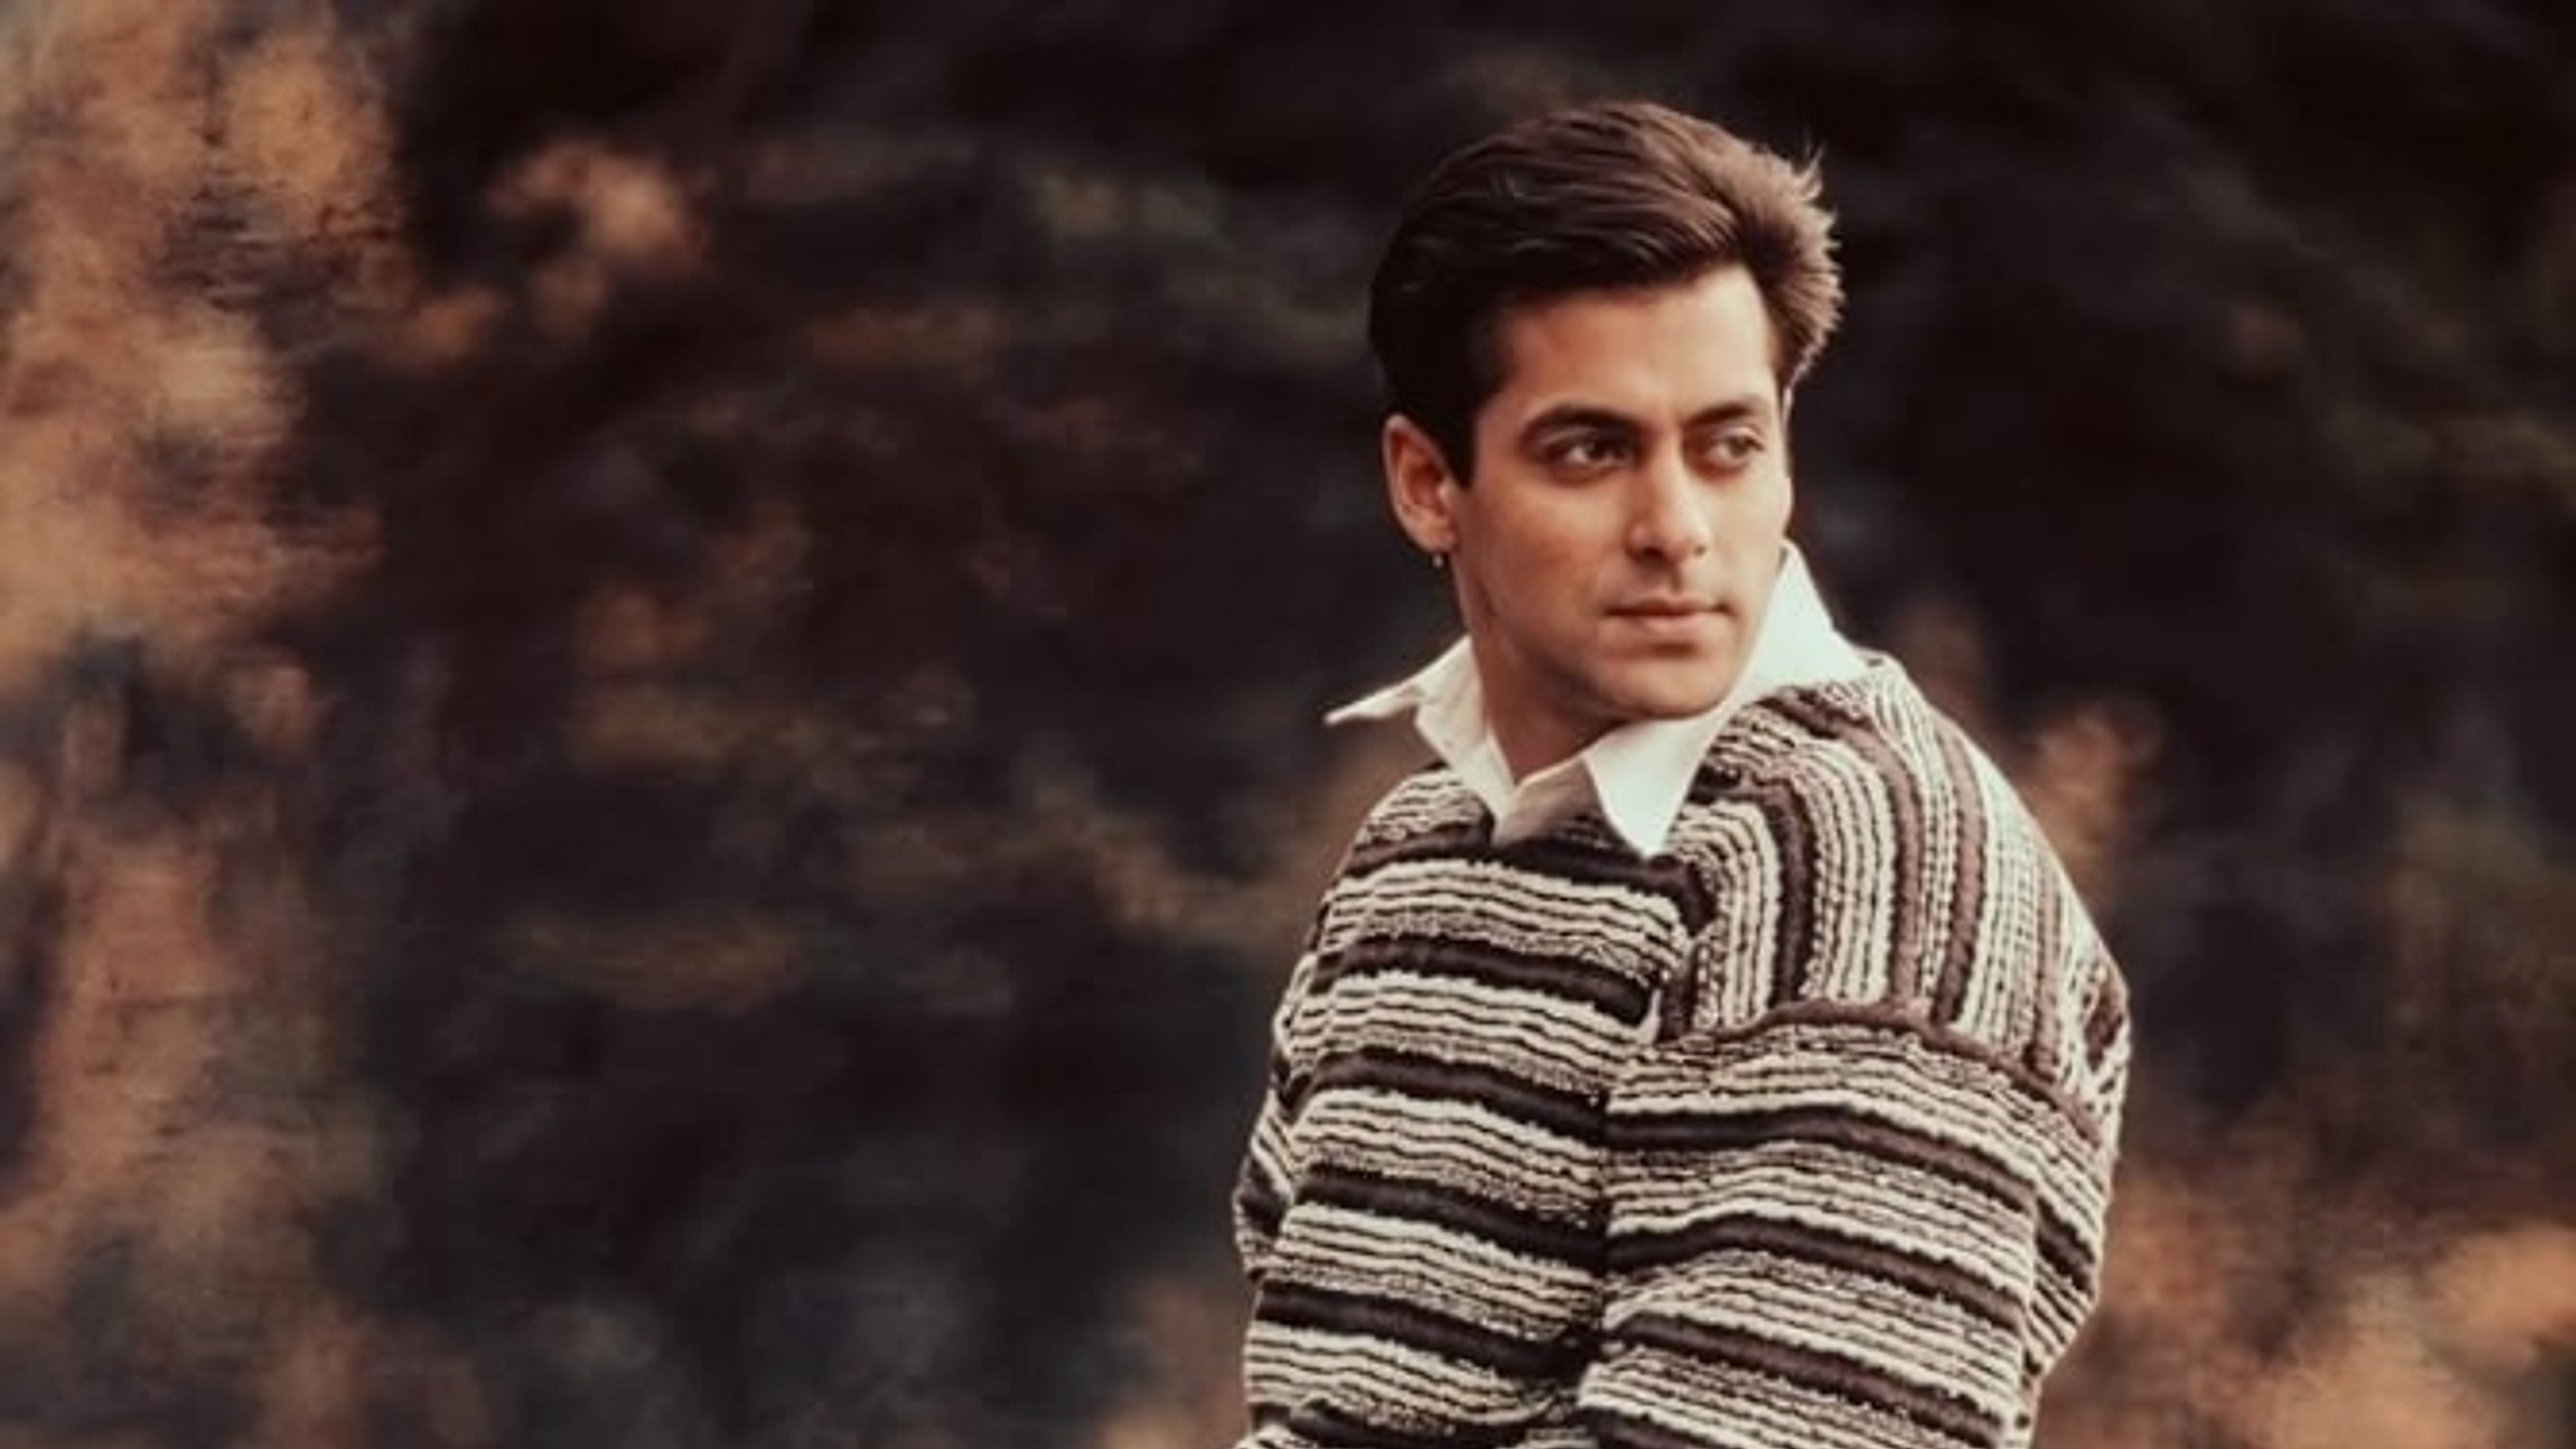
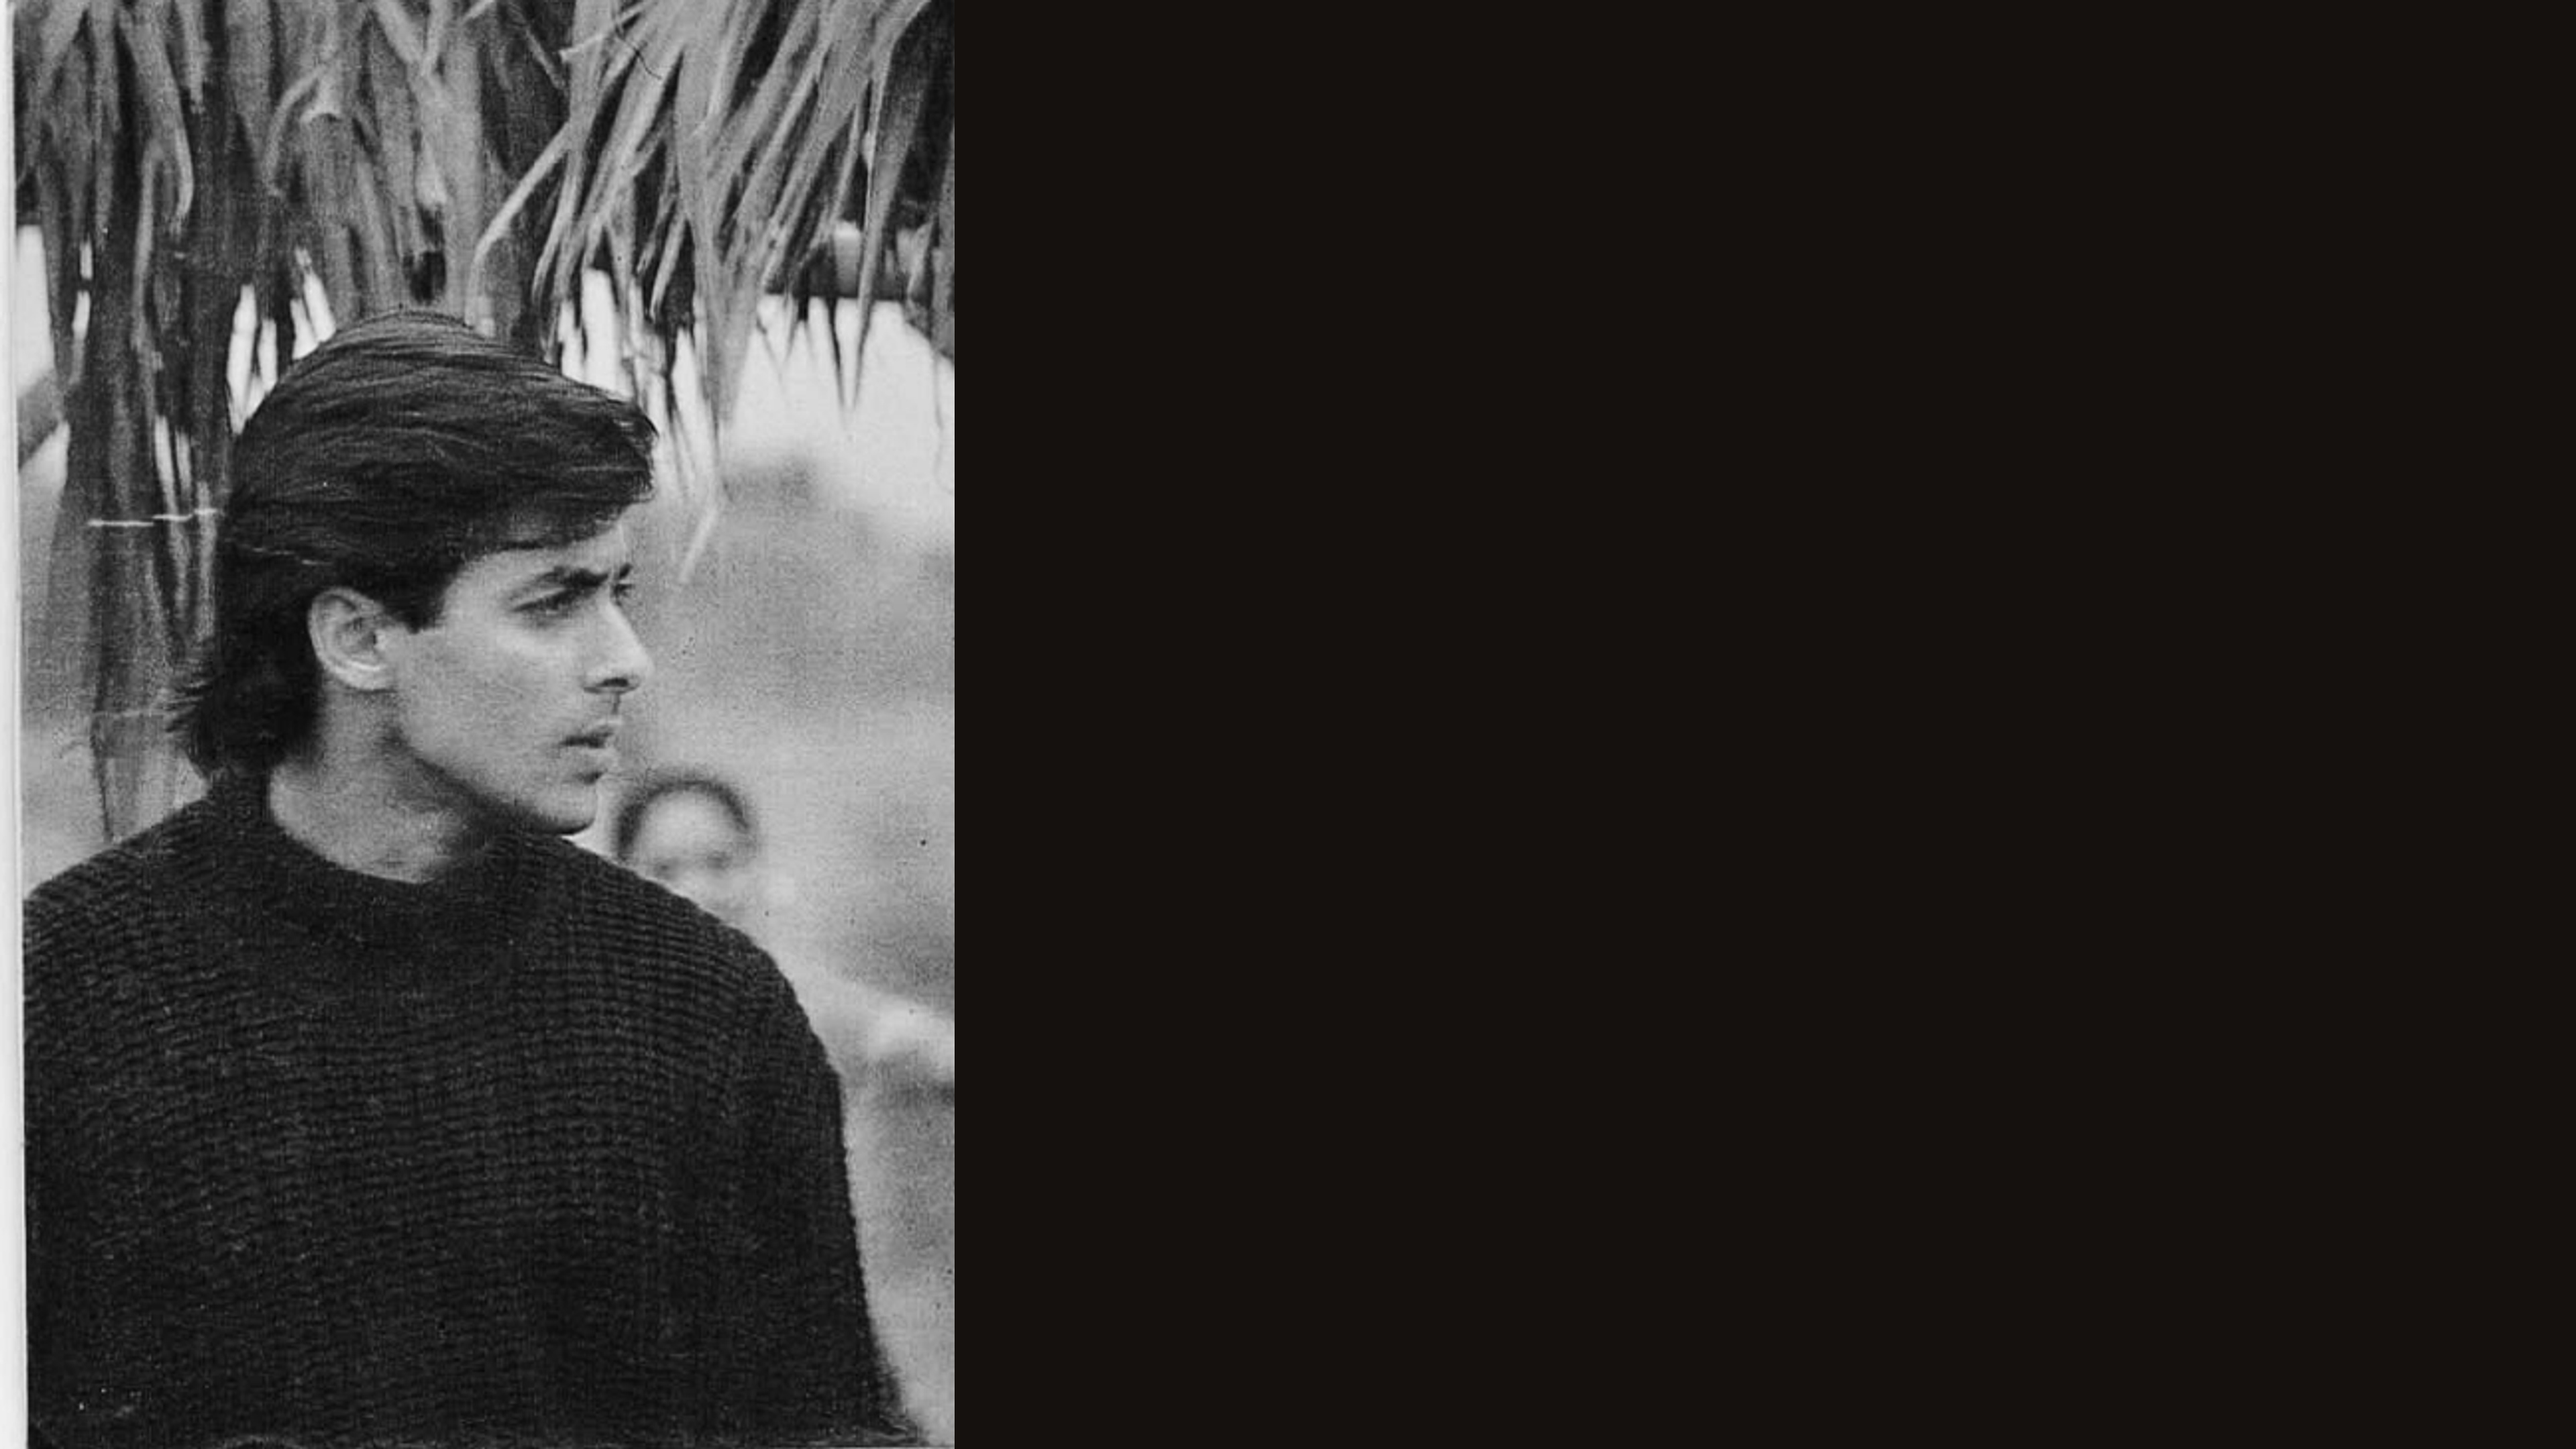
updated

diff --git a/src/index.css b/src/index.css
@@ -60,13 +60,46 @@ button {
 }
 
 .photo {
-  background: url('/bg-bhaijaan-room.jpg') center/cover no-repeat;
-  filter: brightness(.92) saturate(1.06) contrast(1.04);
-  transform: scale(1.04) translateZ(0);
+  background: url('/bg-bhaijaan-room.jpg') left center / cover no-repeat;
+  filter: brightness(.94) saturate(1.05) contrast(1.02);
+  transform: scale(1.02) translateZ(0);
   image-rendering: -webkit-optimize-contrast;
   backface-visibility: hidden;
   z-index: -3;
-  animation: slowDrift 25s ease-in-out infinite alternate;
+}
+
+/* ─── RESPONSIVE BACKGROUND DEVICE BREAKPOINTS ─── */
+
+/* Mobile Phones (Portrait & Small Screens) */
+@media (max-width: 600px) {
+  .photo {
+    background: url('/bg-mobile-bhaijaan.jpg') center center / cover no-repeat;
+    filter: brightness(.88) saturate(1.05) contrast(1.02);
+  }
+}
+
+/* Tablets & Foldables (Medium Screens) */
+@media (min-width: 601px) and (max-width: 1024px) {
+  .photo {
+    background: url('/bg-bhaijaan-room.jpg') right 18% center / cover no-repeat;
+    filter: brightness(.90) saturate(1.05) contrast(1.03);
+  }
+}
+
+/* Laptops (Standard Widescreen Monitors) */
+@media (min-width: 1025px) and (max-width: 1440px) {
+  .photo {
+    background: url('/bg-bhaijaan-room.jpg') right 12% center / cover no-repeat;
+    filter: brightness(.92) saturate(1.06) contrast(1.04);
+  }
+}
+
+/* Large Desktops & Ultrawides */
+@media (min-width: 1441px) {
+  .photo {
+    background: url('/bg-bhaijaan-room.jpg') right 8% center / cover no-repeat;
+    filter: brightness(.94) saturate(1.06) contrast(1.04);
+  }
 }
 
 @keyframes slowDrift {
@@ -403,16 +436,17 @@ button {
 }
 
 .status-dot {
-  width: 4px;
-  height: 4px;
+  width: 5px;
+  height: 5px;
   border-radius: 50%;
-  background: var(--white-15);
+  background: rgba(46, 213, 115, 0.35);
   transition: all .4s;
 }
 
 .status-dot.is-active {
-  background: var(--white-60);
-  box-shadow: 0 0 8px rgba(255, 255, 255, .3);
+  background: #2ed573;
+  box-shadow: 0 0 8px #2ed573, 0 0 16px rgba(46, 213, 115, 0.6);
+  transform: scale(1.2);
 }
 
 .compact-track-title {
@@ -593,8 +627,8 @@ button {
 /* ─── MOBILE ─── */
 @media (max-width: 600px) {
   .photo {
-    background: url('/bg-mobile-bhaijaan.jpg') center top / cover no-repeat;
-    filter: brightness(.88) saturate(1.05) contrast(1.02);
+    background: url('/bg-mobile-bhaijaan.jpg') center center / cover no-repeat;
+    filter: brightness(.92) saturate(1.05) contrast(1.02);
   }
 
   .saloon-page {
@@ -635,8 +669,28 @@ button {
   .years {
     font-size: 9px;
     letter-spacing: .28em;
-    color: rgba(255, 255, 255, .8);
+    color: #ffffff;
     margin-top: 6px;
+    text-shadow: 0 2px 8px #000;
+  }
+
+  .mode-tag {
+    color: #ffffff;
+    letter-spacing: .18em;
+    font-weight: 700;
+  }
+
+  .status-dot {
+    width: 6px;
+    height: 6px;
+    border-radius: 50%;
+    background: rgba(46, 213, 115, 0.4);
+    border: none;
+  }
+
+  .status-dot.is-active {
+    background: #2ed573;
+    box-shadow: 0 0 10px #2ed573, 0 0 16px rgba(46, 213, 115, 0.7);
   }
 
   /* Clean Vertical Mode List Centered under Hero */
@@ -658,7 +712,7 @@ button {
     padding: 6px 16px;
     font-size: 11px;
     letter-spacing: .16em;
-    color: rgba(255, 255, 255, 0.6);
+    color: rgba(255, 255, 255, 0.85);
     white-space: nowrap;
     text-shadow: 0 2px 10px #000;
     transition: all 0.2s ease;
@@ -668,9 +722,9 @@ button {
   }
 
   .vertical-mode-btn.active {
-    color: #ffffff;
+    color: #f6b93c;
     font-weight: 700;
-    text-shadow: 0 0 12px rgba(255, 255, 255, .9);
+    text-shadow: 0 0 12px rgba(246, 185, 60, .9);
   }
 
   .vertical-mode-btn .mode-indicator-dot {
@@ -678,7 +732,7 @@ button {
     width: 5px;
     height: 5px;
     border-radius: 50%;
-    background: rgba(255, 255, 255, 0.3);
+    background: rgba(255, 255, 255, 0.4);
     border: none;
   }
 
@@ -704,16 +758,19 @@ button {
   .compact-track-title {
     font-size: 18px;
     color: #ffffff;
+    text-shadow: 0 2px 14px rgba(0, 0, 0, .95);
   }
 
   .compact-track-sub {
     font-size: 10px;
-    color: rgba(255, 255, 255, 0.85);
+    color: #ffffff;
+    text-shadow: 0 2px 10px rgba(0, 0, 0, .9);
   }
 
   .tiny-time {
     font-size: 9px;
-    color: rgba(255, 255, 255, 0.85);
+    color: #ffffff;
+    text-shadow: 0 2px 8px #000;
   }
 
   .minimal-controls {
@@ -772,5 +829,46 @@ button {
     scroll-behavior: auto !important;
     transition: none !important;
     animation: none !important;
+  }
+}
+
+/* ─── SITE FOOTER ─── */
+.saloon-footer {
+  position: fixed;
+  bottom: 20px;
+  right: 28px;
+  z-index: 20;
+  pointer-events: auto;
+}
+
+.footer-credits {
+  font-family: var(--font-type);
+  font-size: 10px;
+  letter-spacing: .14em;
+  color: rgba(255, 255, 255, .7);
+  text-transform: uppercase;
+  text-shadow: 0 2px 10px rgba(0, 0, 0, 0.95);
+  margin: 0;
+}
+
+.footer-link {
+  color: #f6b93c;
+  font-weight: 700;
+  text-decoration: none;
+  transition: all .2s ease;
+}
+
+.footer-link:hover {
+  color: #ffffff;
+  text-shadow: 0 0 10px #f6b93c;
+}
+
+@media (max-width: 600px) {
+  .saloon-footer {
+    position: fixed;
+    bottom: max(12px, env(safe-area-inset-bottom));
+    left: 0;
+    right: 0;
+    text-align: center;
   }
 }

diff --git a/src/utils/spotifySDKManager.js b/src/utils/spotifySDKManager.js
@@ -25,6 +25,42 @@ class SpotifySDKManager {
     this.isInitializing = false;
     this.listeners = new Set();
     this.currentContextUri = null;
+
+    // Visibility Resync: Listen for tab visibility return to synchronize UI with Spotify state
+    if (typeof document !== 'undefined') {
+      document.addEventListener('visibilitychange', async () => {
+        if (!document.hidden && this.player) {
+          // DO NOT resume/pause manually. Only synchronize UI with actual Spotify state.
+          await this.resyncState();
+        }
+      });
+    }
+  }
+
+  async getCurrentState() {
+    if (!this.player || typeof this.player.getCurrentState !== 'function') return null;
+    try {
+      return await this.player.getCurrentState();
+    } catch (e) {
+      console.warn('[BHAIJAAN] getCurrentState error:', e);
+      return null;
+    }
+  }
+
+  async resyncState() {
+    const state = await this.getCurrentState();
+    if (!state) return;
+    const track = state.track_window?.current_track;
+    this.notifyListeners('player_state_changed', {
+      state,
+      track,
+      isPlaying: !state.paused,
+      position: state.position,
+      duration: state.duration,
+      disallows: state.disallows || {},
+      nextTracks: state.track_window?.next_tracks,
+      previousTracks: state.track_window?.previous_tracks
+    });
   }
 
   init(tokenOverride = null) {

diff --git a/src/App.jsx b/src/App.jsx
@@ -220,6 +220,13 @@ export default function App() {
           onSeek={handleSeek}
         />
       </section>
+
+      {/* Site Footer */}
+      <footer className="saloon-footer">
+        <p className="footer-credits">
+          Made by <a href="https://tushal-pandey.vercel.app/" target="_blank" rel="noopener noreferrer" className="footer-link">Tushal Pandey</a>
+        </p>
+      </footer>
     </main>
   );
 }
